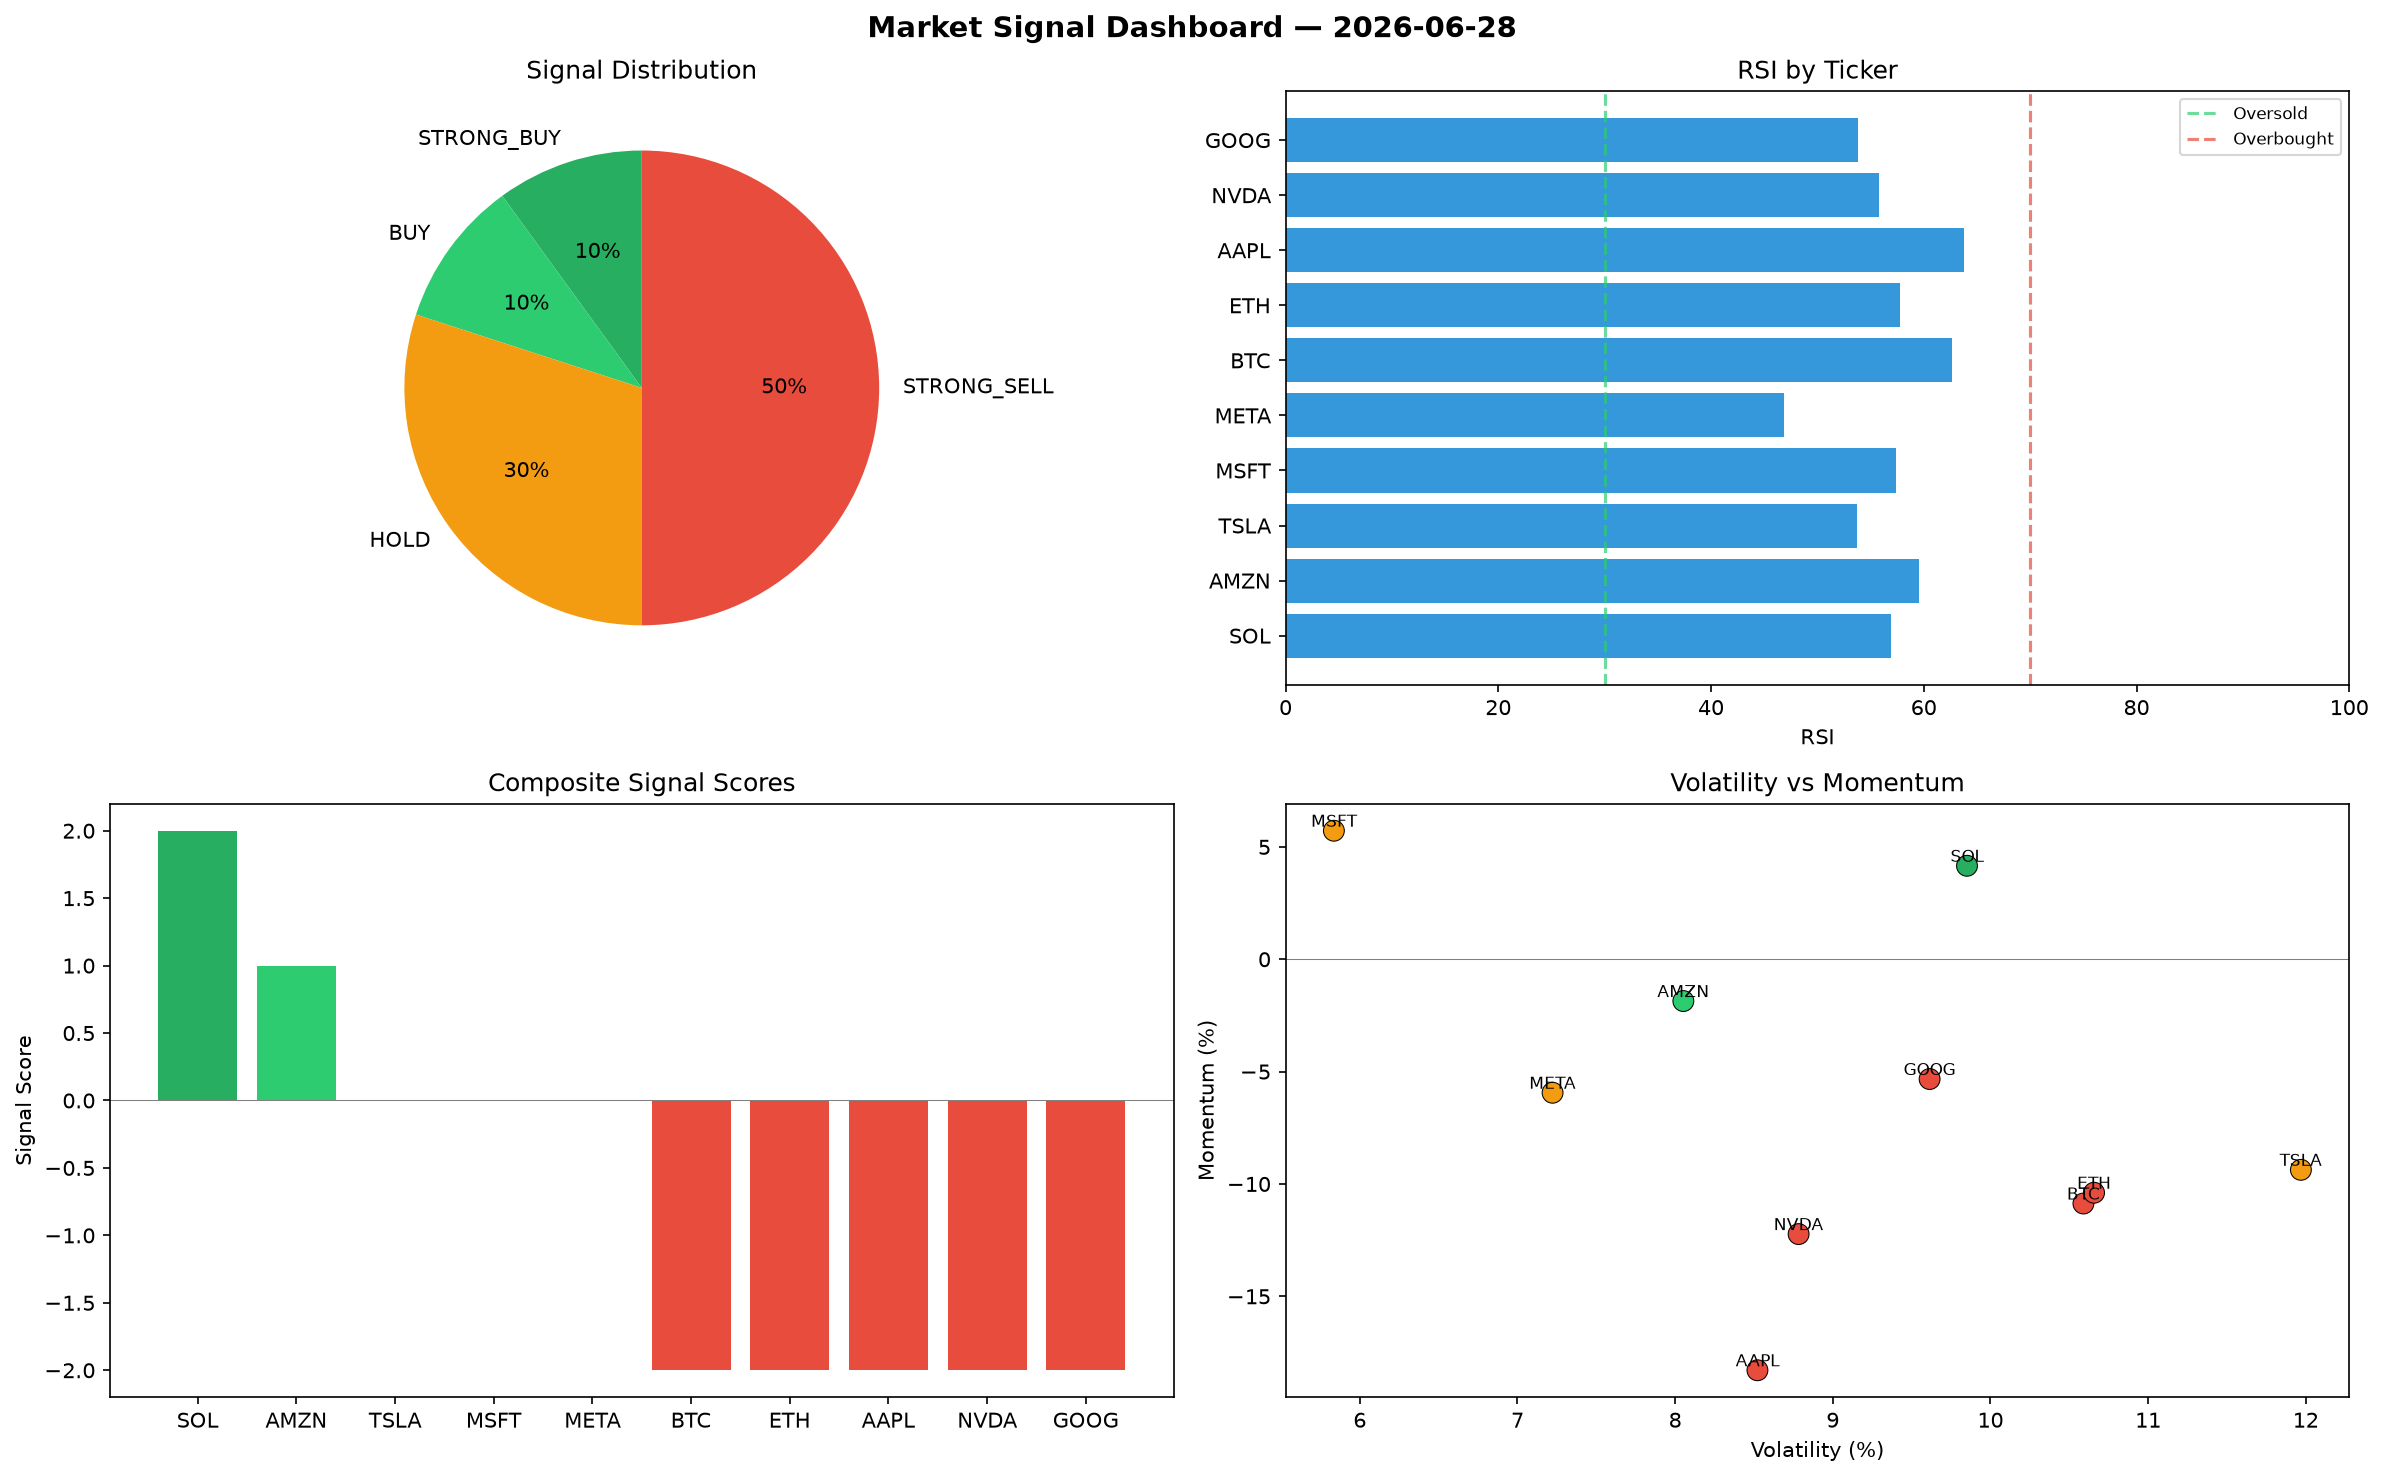
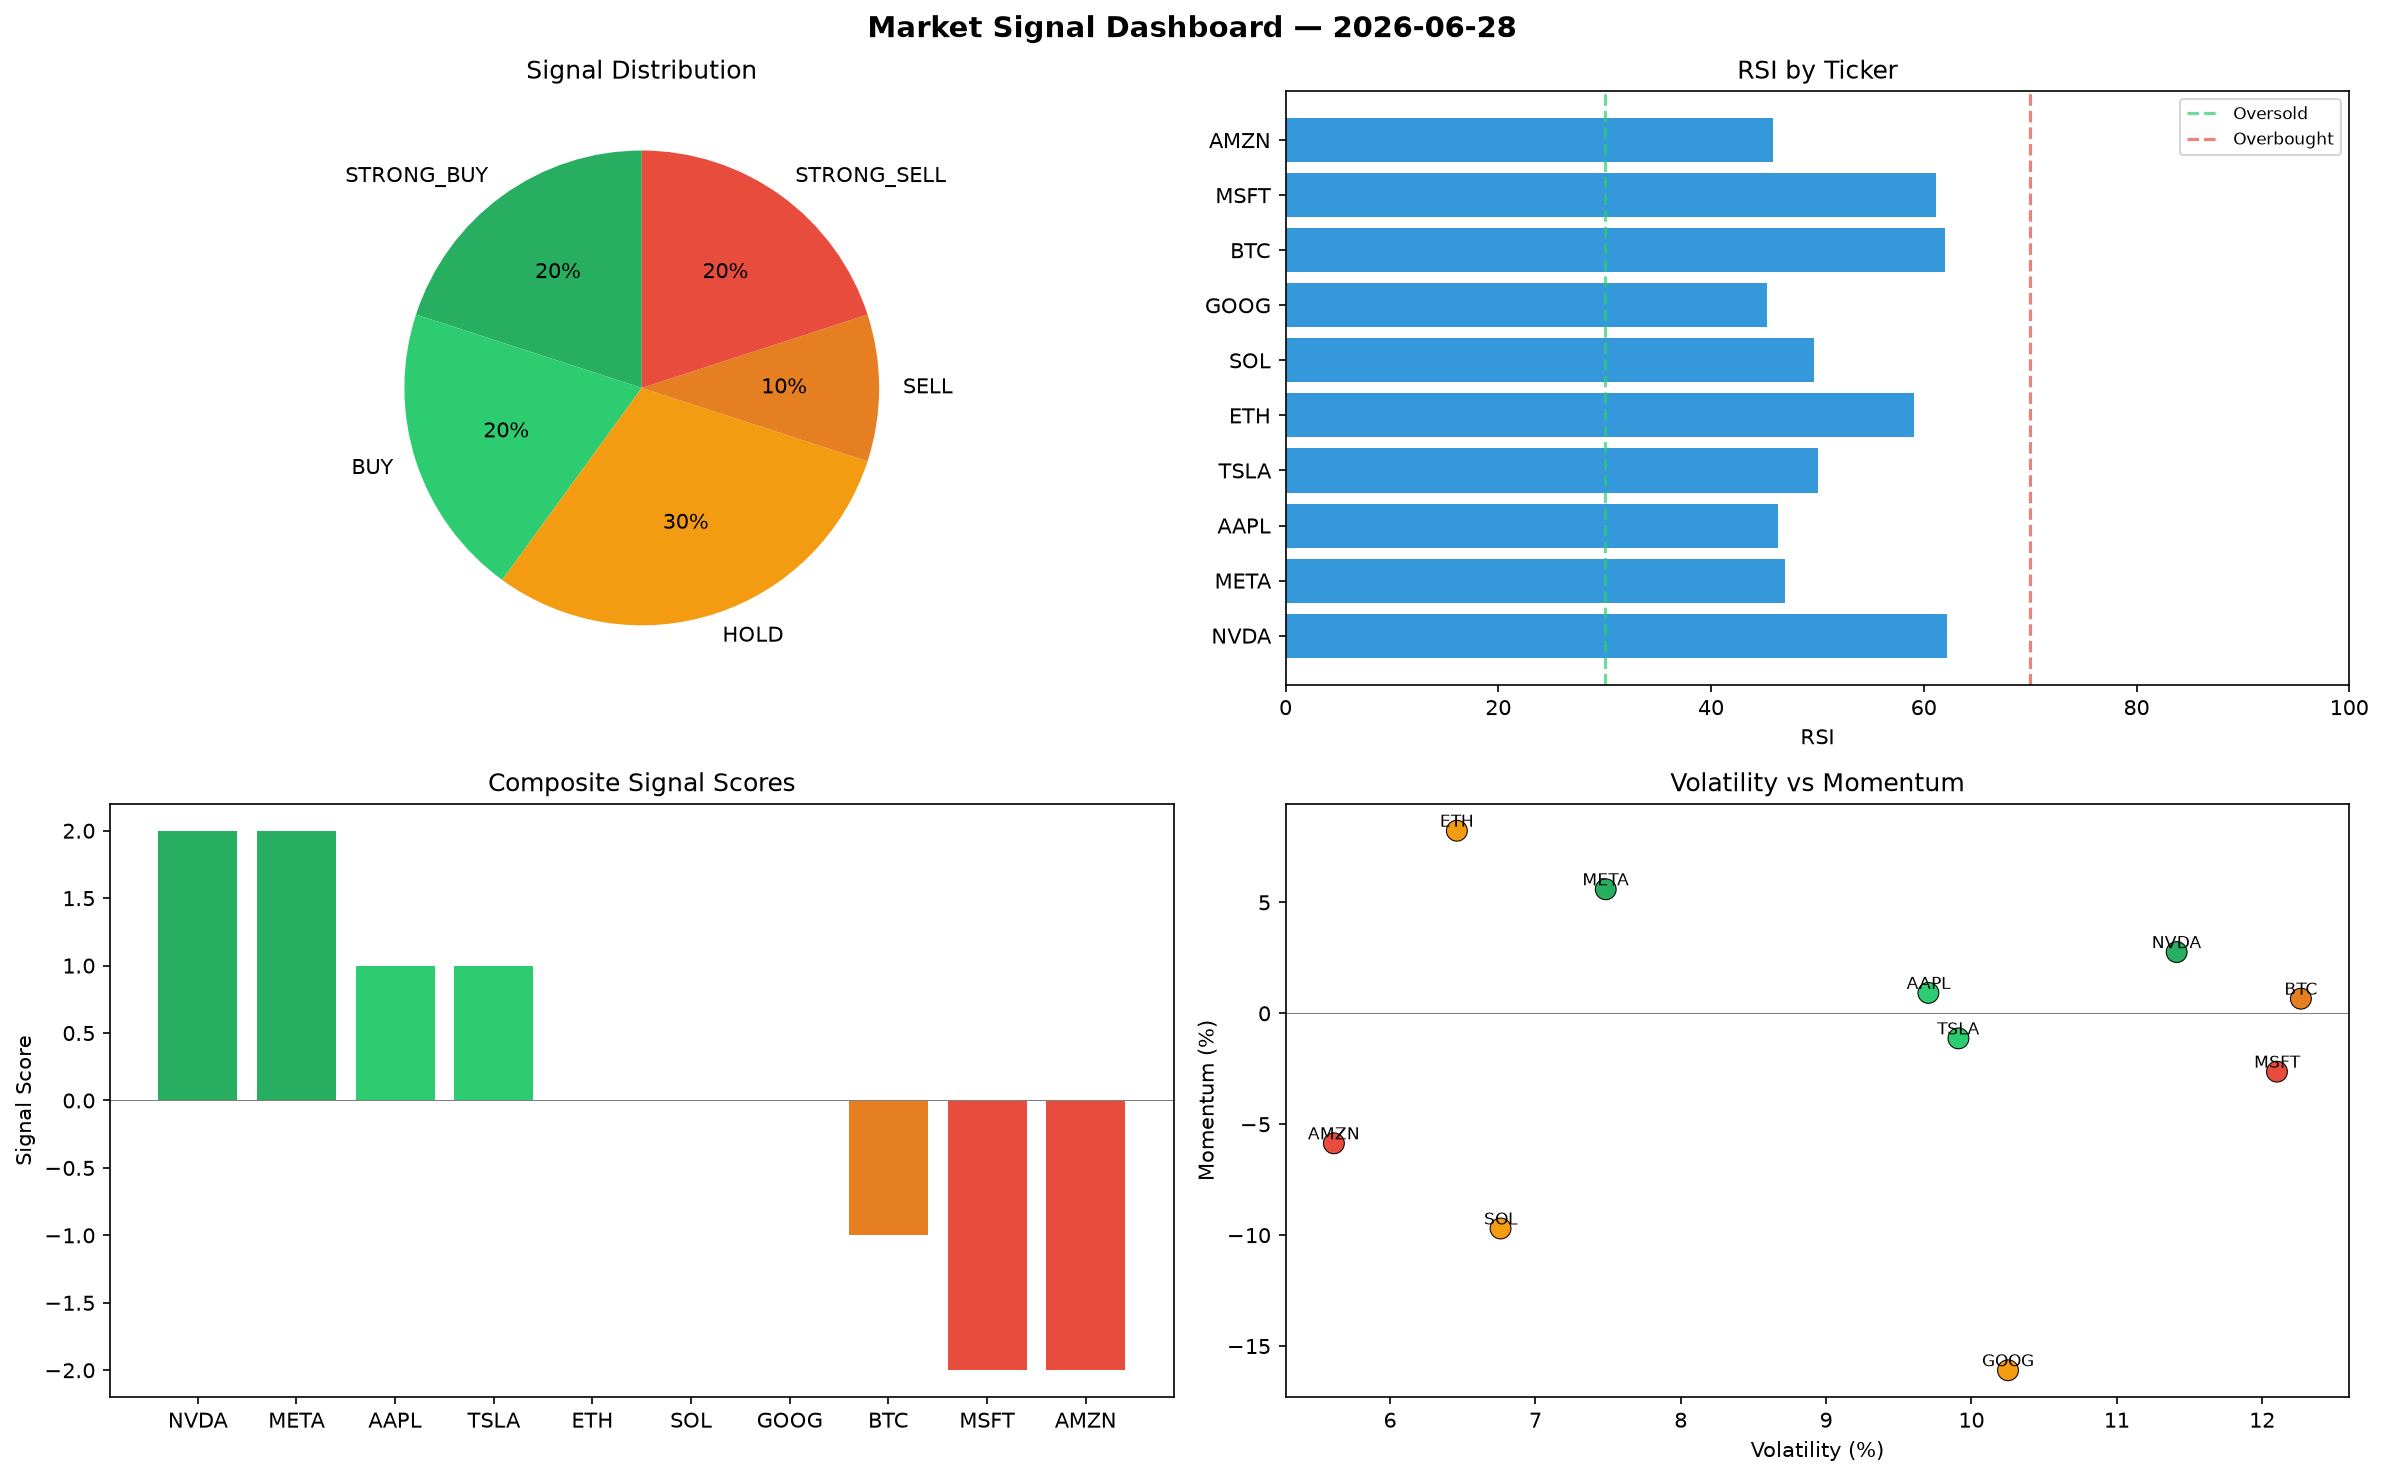
automated-bots: market signals 2026-06-28T15:50

diff --git a/logs/2026-06-28.md b/logs/2026-06-28.md
@@ -1,6 +1,6 @@
 # Market Signal Report — 2026-06-28
 
-**Run ID:** `73f65530cf` | **Buy:** 2 | **Sell:** 5 | **Hold:** 3
+**Run ID:** `20357a70b1` | **Buy:** 4 | **Sell:** 3 | **Hold:** 3
 
 ![Dashboard](2026-06-28_dashboard.png)
 
@@ -8,28 +8,28 @@
 
 | Ticker | Price | Signal | Score | RSI | Momentum | Confidence |
 |--------|-------|--------|-------|-----|----------|------------|
-| SOL | $3131.22 | **STRONG_BUY** | 2 | 56.96 | 0.0416 | 0.5 |
-| AMZN | $1114.74 | **BUY** | 1 | 59.57 | -0.0186 | 0.25 |
-| TSLA | $4403.28 | **HOLD** | 0 | 53.77 | -0.0937 | 0.0 |
-| MSFT | $110.39 | **HOLD** | 0 | 57.35 | 0.0572 | 0.0 |
-| META | $4601.15 | **HOLD** | 0 | 46.86 | -0.0594 | 0.0 |
-| BTC | $2011.69 | **STRONG_SELL** | -2 | 62.65 | -0.1087 | 0.5 |
-| ETH | $4137.08 | **STRONG_SELL** | -2 | 57.77 | -0.1039 | 0.5 |
-| AAPL | $444.74 | **STRONG_SELL** | -2 | 63.8 | -0.1829 | 0.5 |
-| NVDA | $2532.5 | **STRONG_SELL** | -2 | 55.79 | -0.1223 | 0.5 |
-| GOOG | $2963.63 | **STRONG_SELL** | -2 | 53.84 | -0.0533 | 0.5 |
+| NVDA | $2898.17 | **STRONG_BUY** | 2 | 62.21 | 0.0276 | 0.5 |
+| META | $4094.6 | **STRONG_BUY** | 2 | 47.0 | 0.0559 | 0.5 |
+| AAPL | $1344.4 | **BUY** | 1 | 46.25 | 0.0092 | 0.25 |
+| TSLA | $4901.84 | **BUY** | 1 | 50.03 | -0.0113 | 0.25 |
+| ETH | $874.6 | **HOLD** | 0 | 59.08 | 0.0823 | 0.0 |
+| SOL | $3309.74 | **HOLD** | 0 | 49.71 | -0.097 | 0.0 |
+| GOOG | $4052.72 | **HOLD** | 0 | 45.29 | -0.1609 | 0.0 |
+| BTC | $3287.42 | **SELL** | -1 | 62.03 | 0.0066 | 0.25 |
+| MSFT | $2697.29 | **STRONG_SELL** | -2 | 61.15 | -0.0263 | 0.5 |
+| AMZN | $1070.33 | **STRONG_SELL** | -2 | 45.79 | -0.0586 | 0.5 |
 
 ## Delta vs Yesterday
 
 | Ticker | Today | Yesterday | Price Change | Signal Changed |
 |--------|-------|-----------|-------------|----------------|
-| SOL | STRONG_BUY | SELL | 📈 15.54% | ⚠ YES |
-| AMZN | BUY | STRONG_SELL | 📉 -47.35% | ⚠ YES |
-| TSLA | HOLD | HOLD | 📈 30.9% | — |
-| MSFT | HOLD | STRONG_BUY | 📉 -97.43% | ⚠ YES |
-| META | HOLD | HOLD | 📈 2972.96% | — |
-| BTC | STRONG_SELL | STRONG_BUY | 📉 -3.02% | ⚠ YES |
-| ETH | STRONG_SELL | BUY | 📈 330.56% | ⚠ YES |
-| AAPL | STRONG_SELL | SELL | 📉 -85.38% | ⚠ YES |
-| NVDA | STRONG_SELL | SELL | 📉 -40.35% | ⚠ YES |
-| GOOG | STRONG_SELL | STRONG_SELL | 📈 12.63% | — |
+| NVDA | STRONG_BUY | SELL | 📉 -31.74% | ⚠ YES |
+| META | STRONG_BUY | HOLD | 📈 2634.66% | ⚠ YES |
+| AAPL | BUY | SELL | 📉 -55.79% | ⚠ YES |
+| TSLA | BUY | HOLD | 📈 45.72% | ⚠ YES |
+| ETH | HOLD | BUY | 📉 -8.98% | ⚠ YES |
+| SOL | HOLD | SELL | 📈 22.12% | ⚠ YES |
+| GOOG | HOLD | STRONG_SELL | 📈 54.02% | ⚠ YES |
+| BTC | SELL | STRONG_BUY | 📈 58.48% | ⚠ YES |
+| MSFT | STRONG_SELL | STRONG_BUY | 📉 -37.2% | ⚠ YES |
+| AMZN | STRONG_SELL | STRONG_SELL | 📉 -49.44% | — |
